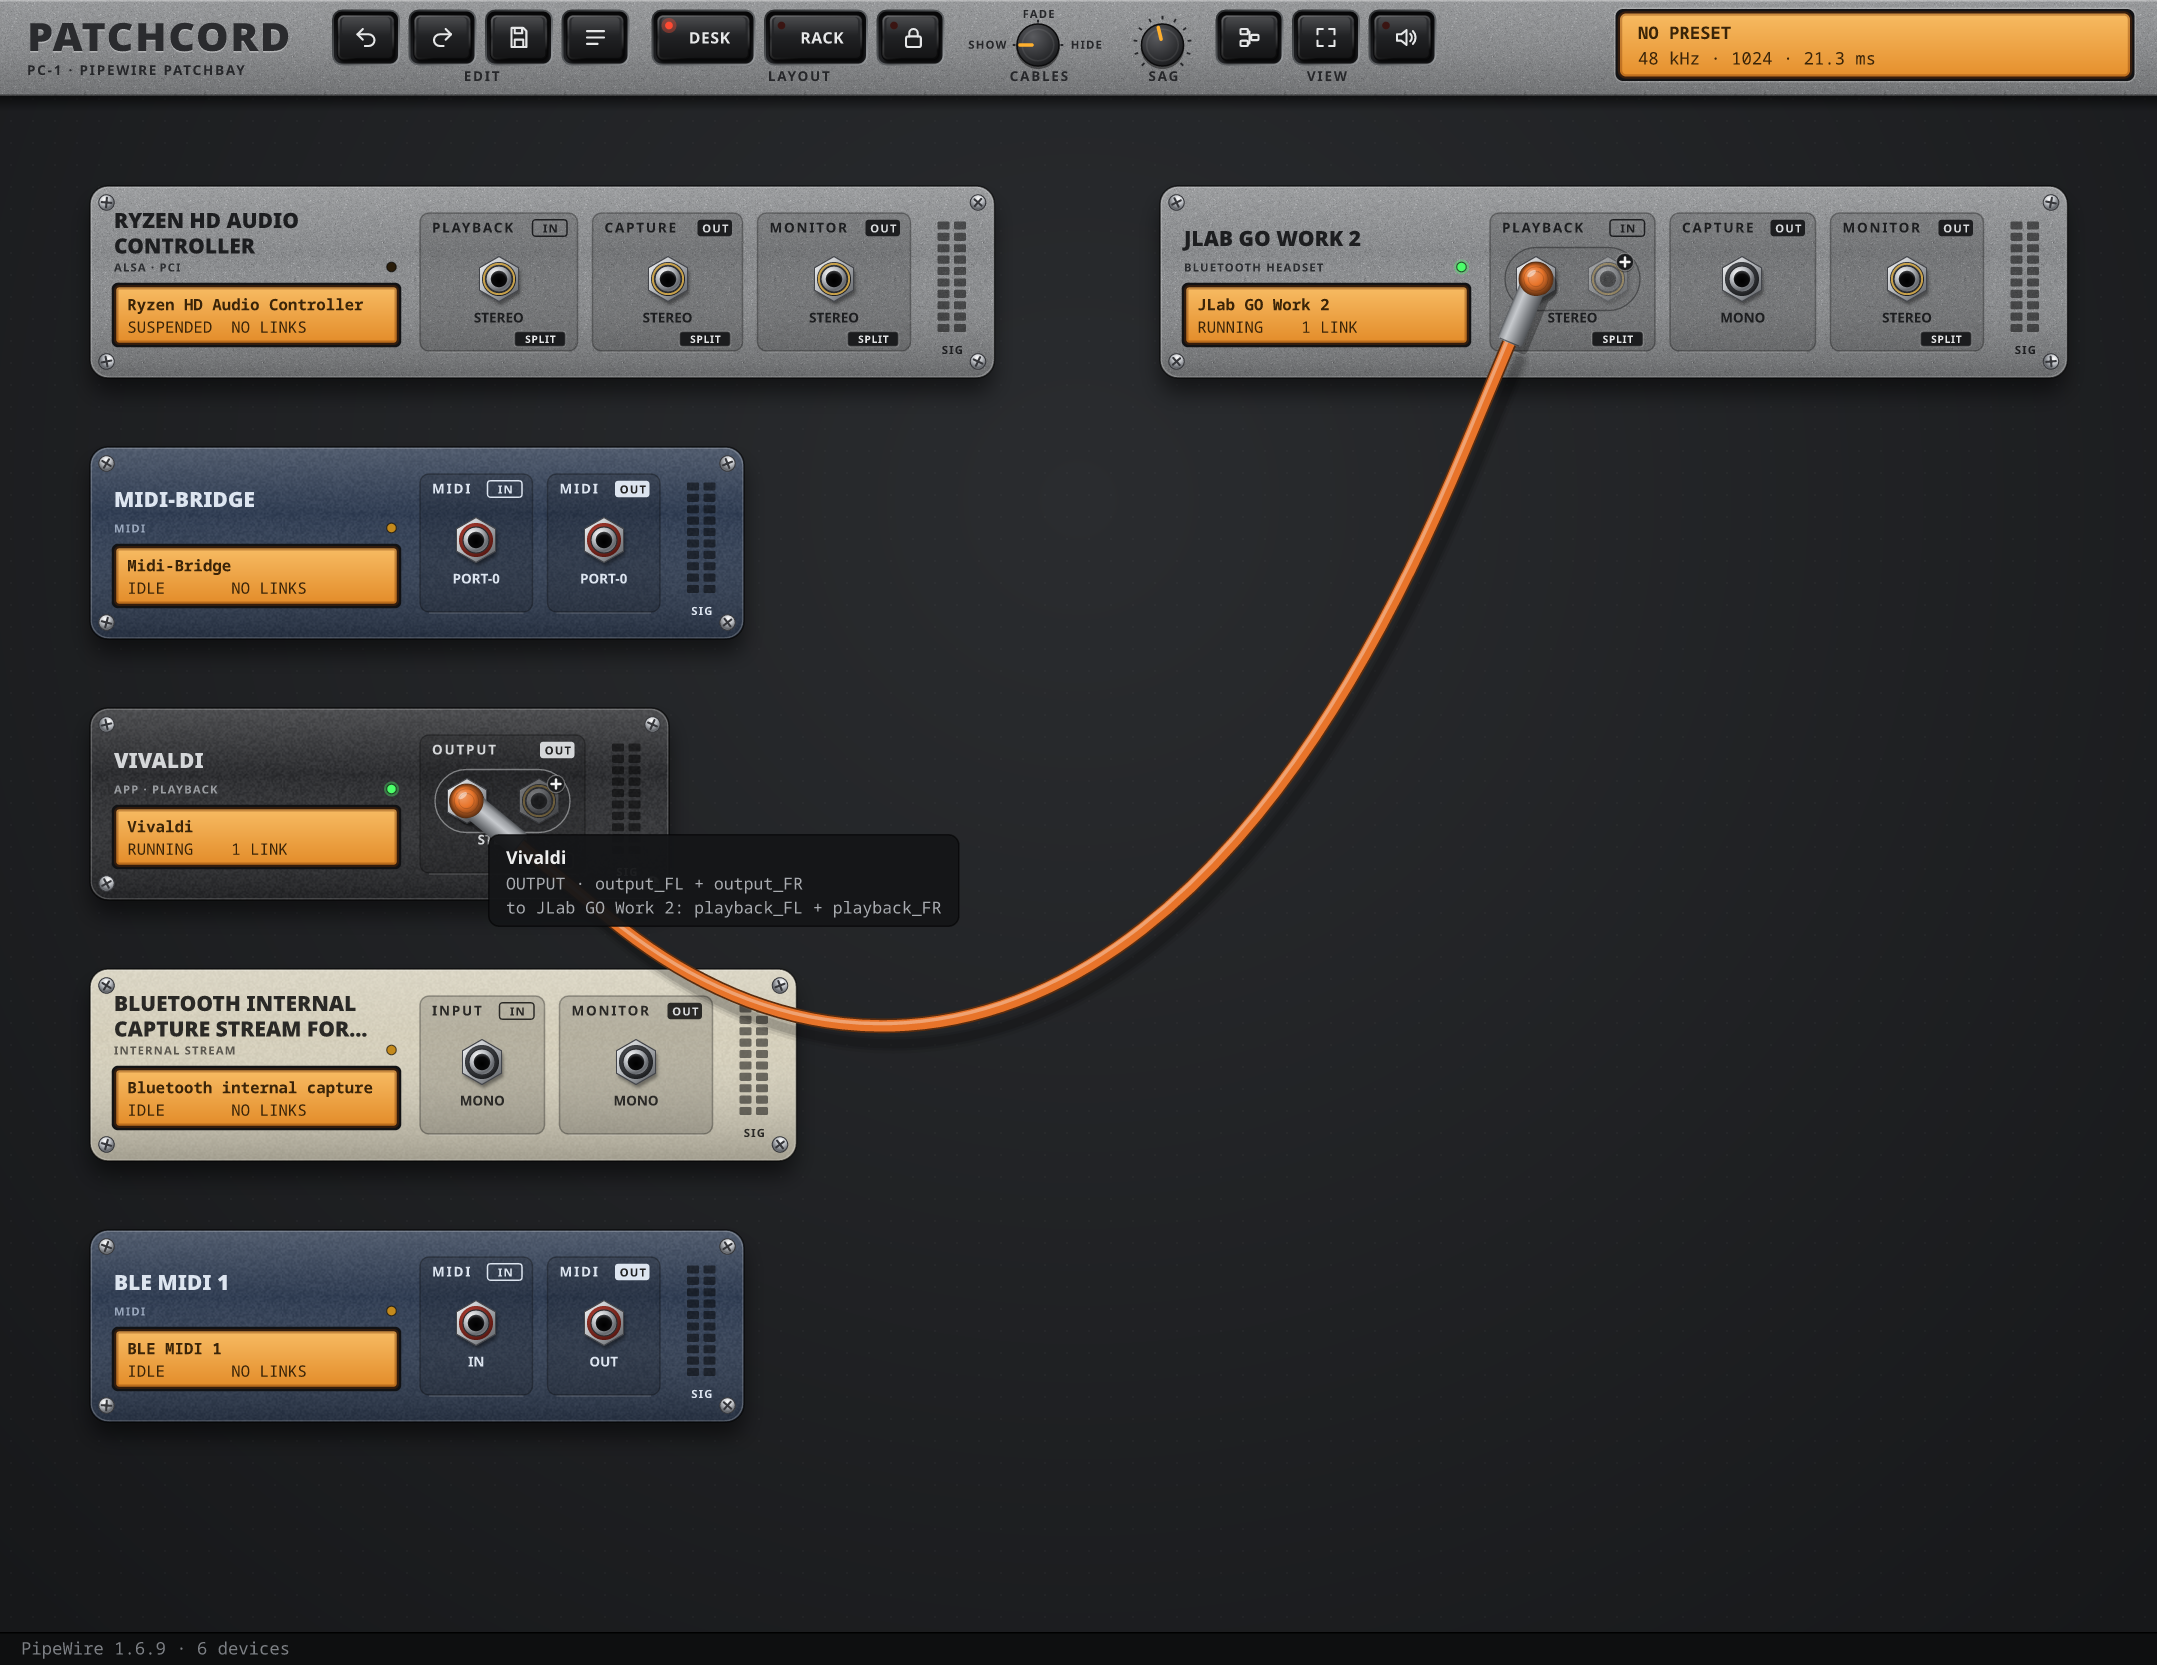
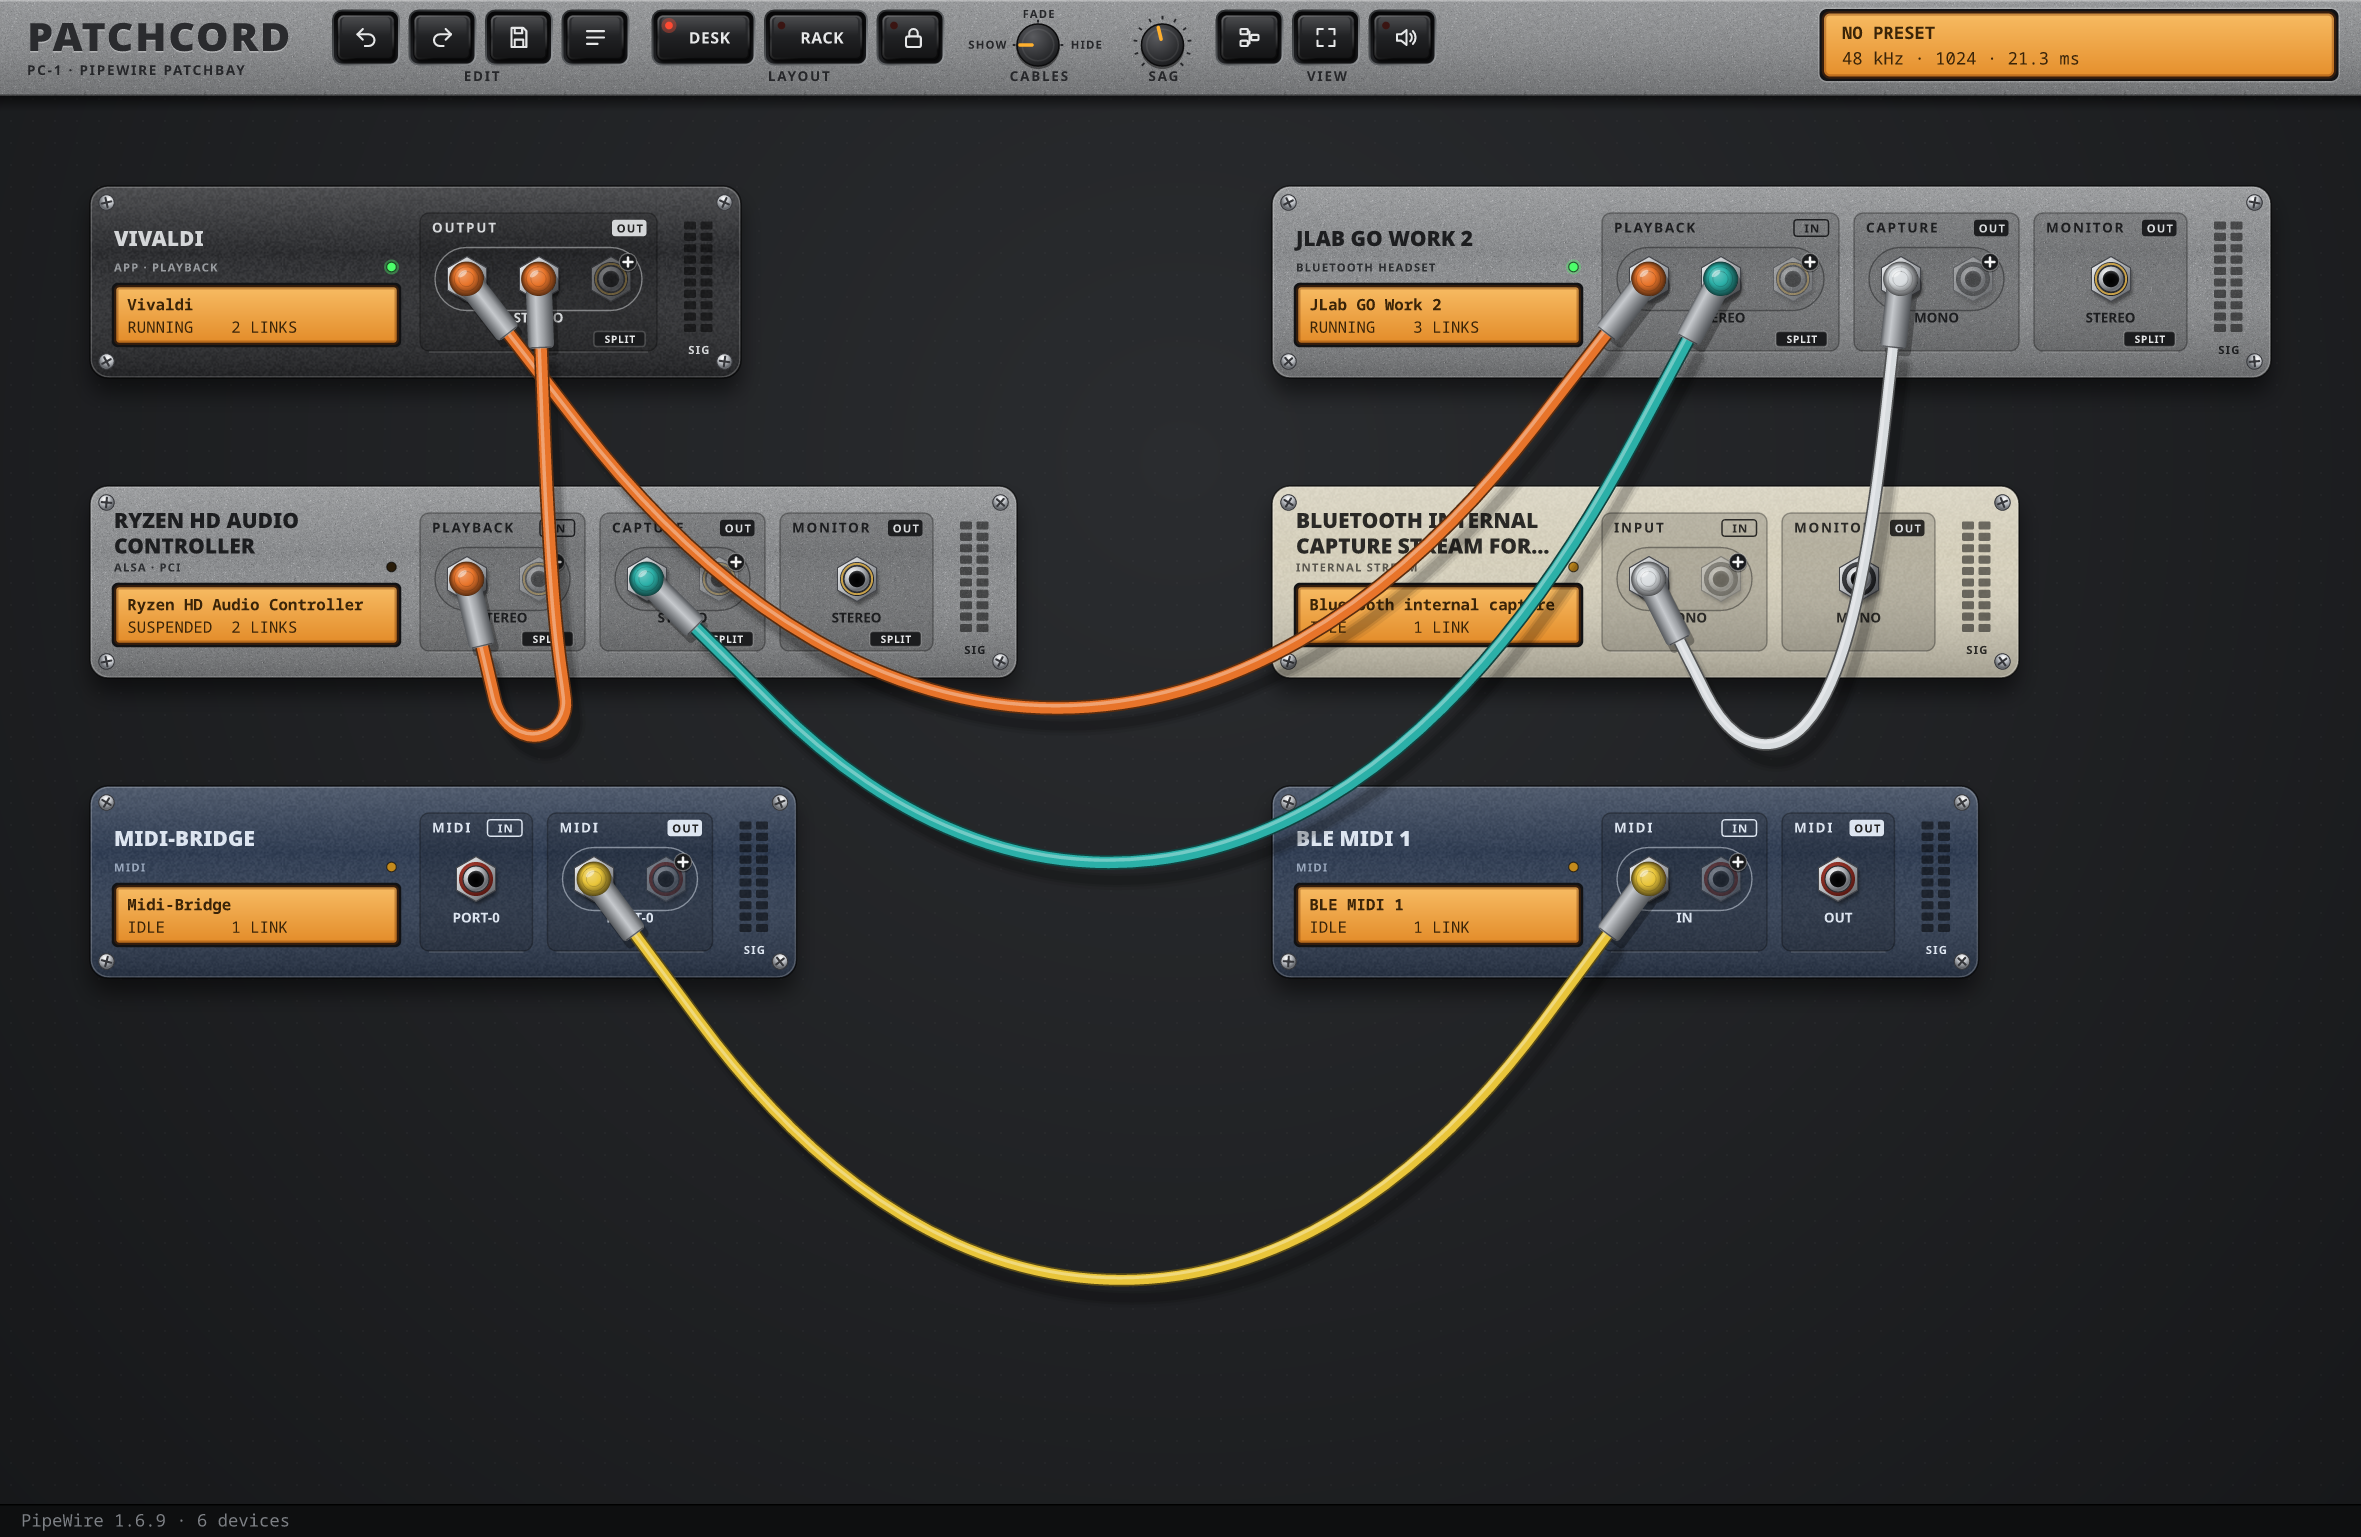
chore: release 0.1.0
- New icon: a P made of two patch cords
- Screenshots with a few patches: `--render ... demo` adds cords to the
  picture only (not to PipeWire) and lays the devices out by signal flow
- Snapshots leave room for the cords that hang below the devices

diff --git a/src/main.rs b/src/main.rs
@@ -12,12 +12,14 @@ use std::time::{Duration, Instant};
 use resvg::tiny_skia::{FilterQuality, Pixmap, PixmapPaint, Transform};
 use winit::event_loop::EventLoop;
 
+use graph::Dir;
 use pw::Connection;
 use ui::scene::Scene;
 
-/// `patchcord --render out.png [rack] [hover | held] [save | presets]`: draws the live graph to a PNG
+/// `patchcord --render out.png [rack] [demo] [hover | held] [save | presets]`: draws the live graph to a PNG
 /// without opening a window, after letting the cords settle (PATCHCORD_SCALE sets the scale, 1.5
-/// by default). "rack" puts the devices in the rack; "hover" rests the pointer on the jack the
+/// by default). "rack" puts the devices in the rack; "demo" adds a few cords to the picture (not
+/// to PipeWire); "hover" rests the pointer on the jack the
 /// first cord comes from; "held" pulls a cord out of the first output
 /// and holds its plug in the air; "save" or "presets" opens that drop-down.
 fn render_snapshot(path: &str, opts: &[String]) -> Result<(), String> {
@@ -37,6 +39,39 @@ fn render_snapshot(path: &str, opts: &[String]) -> Result<(), String> {
         let (x, y) = scene.spare(&k)?;
         Some((scene.pull_new(&k)?, ui::cord::Held { x: x + 150.0, y: y + 110.0, vx: 0.0, lift: 1.0, kind: None }))
     });
+    // a few more cords, in the picture only, for screenshots: (device, group) to (device, group)
+    if opts.iter().any(|o| o == "demo") {
+        let jack = |scene: &Scene, dev: &str, group: &str, dir: Dir| {
+            scene.devs.iter().filter(|d| d.dev.name.starts_with(dev)).flat_map(|d| d.defs.iter().map(move |j| (d, j))).find(|(d, j)| j.dir == dir && d.dev.groups.get(j.group).is_some_and(|g| g.label == group)).map(|(_, j)| j.key.clone())
+        };
+        let patch = [
+            (("Vivaldi", "OUTPUT"), ("Ryzen", "PLAYBACK")),
+            (("JLab GO Work 2", "CAPTURE"), ("Bluetooth internal", "INPUT")),
+            (("Midi-Bridge", "MIDI"), ("BLE MIDI", "MIDI")),
+            (("Ryzen", "CAPTURE"), ("JLab GO Work 2", "PLAYBACK")),
+        ];
+        for ((od, og), (id, ig)) in patch {
+            if let (Some(a), Some(b)) = (jack(&scene, od, og, Dir::Out), jack(&scene, id, ig, Dir::In)) {
+                scene.show_cord(&a, &b);
+            }
+        }
+        if scene.rack {
+            // the rack in the order of the signal flow
+            scene.arrange();
+        } else {
+            // on the desk: what plays on the left, what it plays into on the right, three rows
+            let place = [["Vivaldi", "Ryzen", "Midi-Bridge"], ["JLab GO Work 2", "Bluetooth internal", "BLE MIDI"]];
+            let key = |scene: &Scene, name: &str| scene.devs.iter().find(|d| d.dev.name.starts_with(name)).map(|d| (d.dev.key.clone(), d.geo.w));
+            let left_w = place[0].iter().filter_map(|n| key(&scene, n)).map(|(_, w)| w).fold(0.0, f64::max);
+            for (col, names) in place.iter().enumerate() {
+                for (row, name) in names.iter().enumerate() {
+                    if let Some((k, _)) = key(&scene, name) {
+                        scene.move_device(&k, col as f64 * (left_w + 170.0), row as f64 * 200.0);
+                    }
+                }
+            }
+        }
+    }
     // the pointer on the jack the first cord comes from: its cords light up, its tooltip shows
     let hover = opts.iter().any(|o| o == "hover").then(|| scene.cords.first().and_then(|c| c.a.jack.clone())).flatten();
     if let Some(k) = &hover {
@@ -48,6 +83,8 @@ fn render_snapshot(path: &str, opts: &[String]) -> Result<(), String> {
     }
     let s: f64 = std::env::var("PATCHCORD_SCALE").ok().and_then(|v| v.parse().ok()).unwrap_or(1.5);
     let (x0, y0, x1, y1) = scene.bounds().ok_or("no devices")?;
+    // room for the cords that hang below the devices
+    let y1 = scene.cords.iter().flat_map(|c| c.pts.iter()).map(|p| p.y as f64 + 10.0).fold(y1, f64::max);
     let m = 60.0;
     // the field between the top panel and the status bar, as in the window
     let top = ui::panel::H * s;

diff --git a/src/ui/scene.rs b/src/ui/scene.rs
@@ -954,6 +954,19 @@ impl Scene {
         self.slots();
     }
 
+    /// Plugs a cord between two jacks in the picture only, without linking them in PipeWire:
+    /// for snapshots of a patch the graph doesn't have (`--render ... demo`).
+    pub fn show_cord(&mut self, out: &str, inp: &str) {
+        let (Some(pa), Some(pb)) = (self.spare(out), self.spare(inp)) else { return };
+        let (ka, kb) = (self.jack(out).map(|j| j.1.kind).unwrap(), self.jack(inp).map(|j| j.1.kind).unwrap());
+        let color = self.jack(out).map(|j| j.0.dev.color).unwrap();
+        self.seq += 1;
+        self.slot_seq += 2;
+        let c = Cord::new(self.seq, (self.slot_seq - 1, self.slot_seq), (out.to_owned(), ka, pa), (inp.to_owned(), kb, pb), color, self.sag);
+        self.cords.push(c);
+        self.slots();
+    }
+
     /// The first output jack, for snapshots that show a plug in the hand.
     pub fn first_output(&self) -> Option<String> {
         self.devs.iter().flat_map(|d| d.defs.iter()).find(|j| j.dir == Dir::Out).map(|j| j.key.clone())

diff --git a/docs/RELEASING.md b/docs/RELEASING.md
@@ -25,17 +25,20 @@ newer C library and PipeWire. Their contents are set in `Cargo.toml` under
    `assets/io.github.bewzaalex.patchcord.metainfo.xml`, with the version, today's date and a short
    description. The GitHub release notes are made from it, with the install table added.
    Point the screenshot URLs in the same file at the new tag (`.../patchcord/vX.Y.Z/docs/...`).
-3. **Screenshots**, if the look changed. They show your own PipeWire graph, so patch a few cords
-   first. Each starts from fresh settings in a temporary folder, so your own settings stay as
-   they are:
+3. **Screenshots**, if the look changed. They show your own PipeWire devices, with a few cords
+   added to the picture only (`demo`: they aren't linked in PipeWire). Each starts from fresh
+   settings in a temporary folder, so your own settings stay as they are:
 
    ```sh
    cfg=$(mktemp -d)
-   XDG_CONFIG_HOME=$cfg PATCHCORD_SCALE=1.5 cargo run --release -- --render docs/screenshots/desk.png hover
-   XDG_CONFIG_HOME=$cfg PATCHCORD_SCALE=1.5 cargo run --release -- --render docs/screenshots/rack.png rack
+   XDG_CONFIG_HOME=$cfg PATCHCORD_SCALE=1.5 cargo run --release -- --render docs/screenshots/desk.png demo
+   XDG_CONFIG_HOME=$cfg PATCHCORD_SCALE=1.5 cargo run --release -- --render docs/screenshots/rack.png demo rack
    rm -rf $cfg
    for f in docs/screenshots/*.png; do magick $f -strip -define png:compression-level=9 $f; done
    ```
+
+   The `demo` cords and the desk layout name the devices in `src/main.rs`; change them there
+   for other devices.
 
 4. **Crates**, if `Cargo.lock` changed: `python3 packaging/flatpak/cargo-sources.py`.
 5. **Check** locally: `python3 .github/scripts/release.py version` must print the new version.

diff --git a/README.md b/README.md
@@ -146,8 +146,8 @@ layout, by PipeWire's node and port names). Loading a preset takes away the link
 devices it knows that it doesn't have; devices started later keep theirs. The Flatpak keeps them
 in `~/.var/app/io.github.bewzaalex.patchcord/config/patchcord` instead.
 
-`patchcord --render out.png [rack] [hover | held] [save | presets]` draws the current graph to a PNG without
-opening a window, optionally in the rack, with the pointer on a jack, with a plug in the hand or with a preset drop-down open (`PATCHCORD_SCALE` sets the scale, 1.5 by default). `PATCHCORD_DEBUG=1` prints which GPU it uses.
+`patchcord --render out.png [rack] [demo] [hover | held] [save | presets]` draws the current graph to a PNG without
+opening a window, optionally in the rack, with a few cords added to the picture only (`demo`, for screenshots), with the pointer on a jack, with a plug in the hand or with a preset drop-down open (`PATCHCORD_SCALE` sets the scale, 1.5 by default). `PATCHCORD_DEBUG=1` prints which GPU it uses.
 
 ## Development
 
